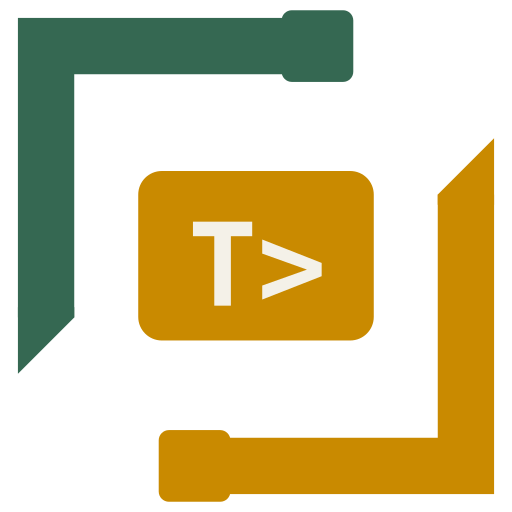
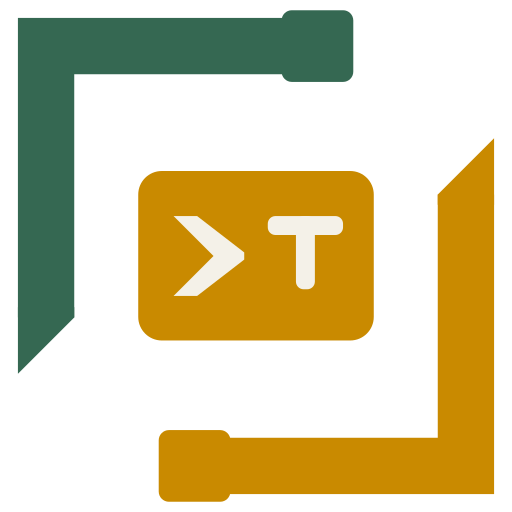
fix(brand): make modern-di-typer mark path-based (bold >T), font-independent

Changed region(s): [[0.3438, 0.4062, 0.6875, 0.5938]]

diff --git a/planning/changes/2026-06-29.01-per-project-brand-marks/design.md b/planning/changes/2026-06-29.01-per-project-brand-marks/design.md
@@ -89,7 +89,7 @@ their logo (see Risk for the one exception).
 | `modern-di-fastapi` | lightning **bolt knocked out of a gold disc** (evokes FastAPI's teal disc+bolt) |
 | `modern-di-litestar` | 5-point **star knocked out of a gold disc** (evokes Litestar's star) |
 | `modern-di-faststream` | the **FastStream delta/stream** shape, recoloured gold |
-| `modern-di-typer` | terminal window showing **`T>`** prompt (evokes Typer) |
+| `modern-di-typer` | terminal window showing **`>T`** prompt (evokes Typer) |
 | `modern-di-pytest` | **stepped bars** hanging from a crossbar, gold tints (evokes pytest's bar emblem) |
 
 **Templates** (2) — reuse the **org chevron mark** (no bespoke symbol):